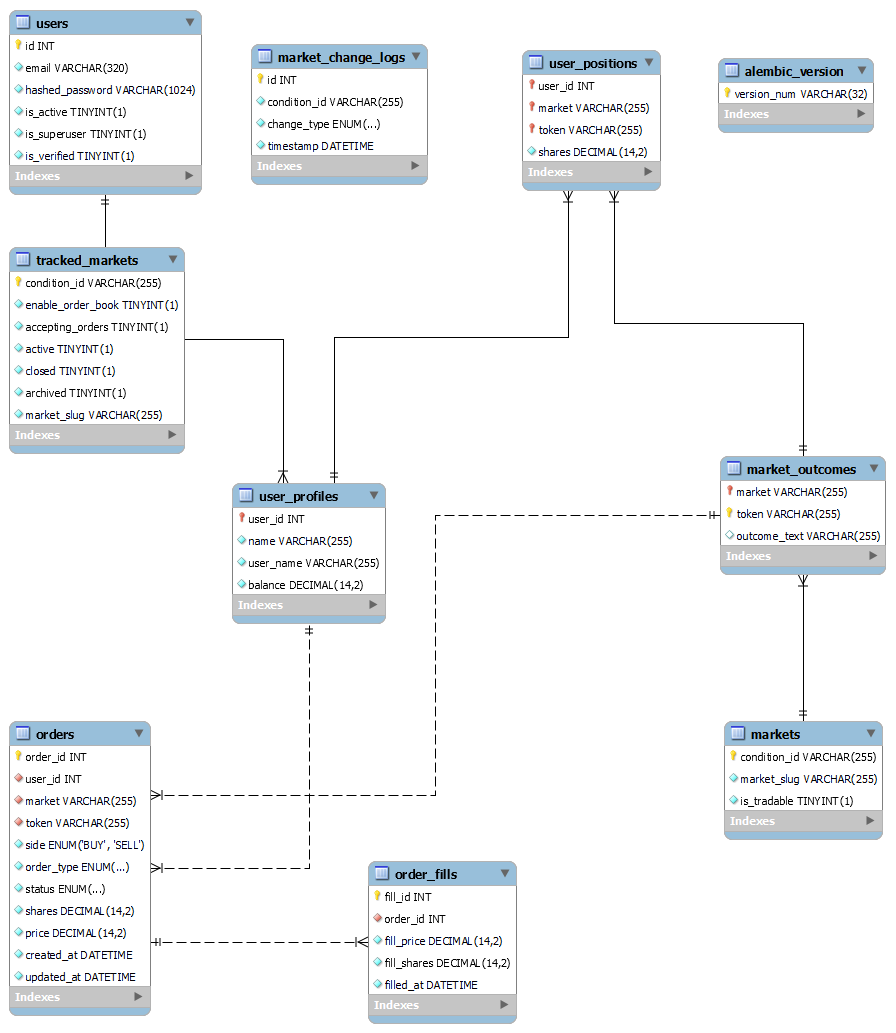
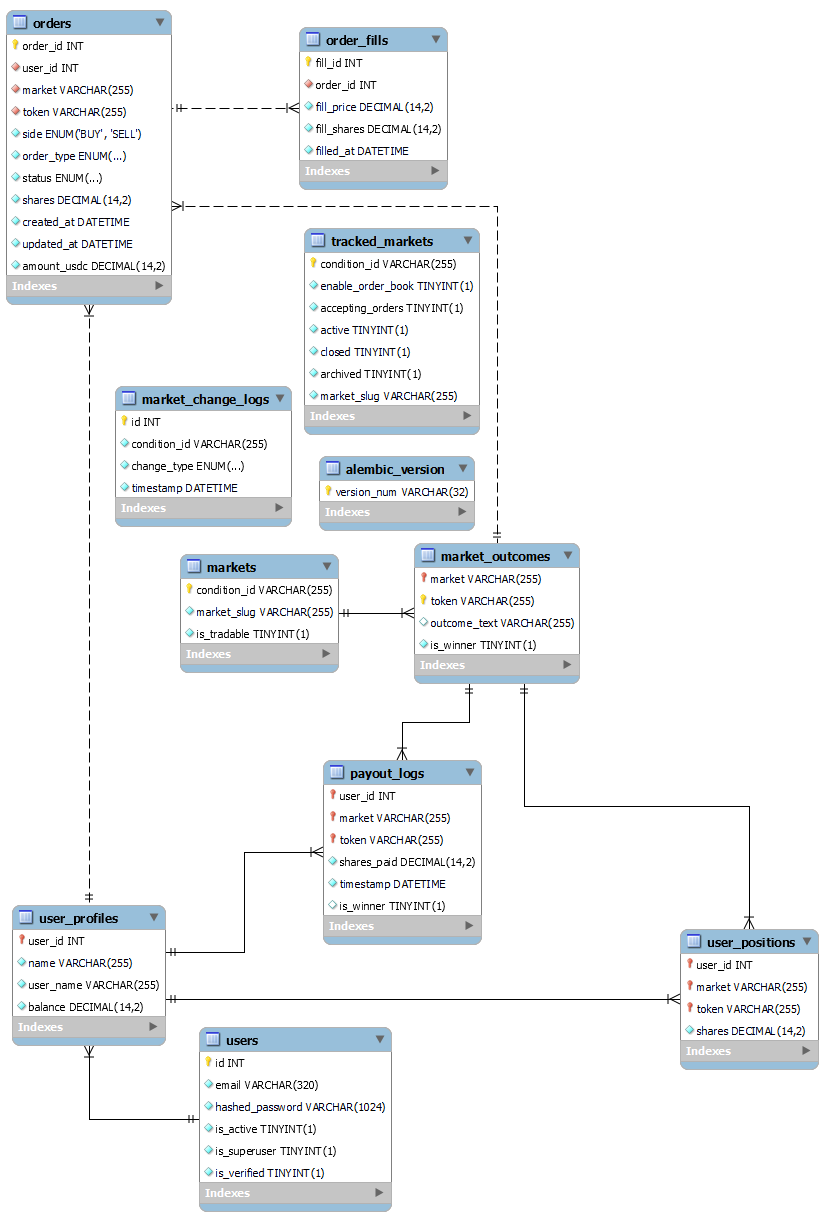
Add periodic sync loop to market_sync job
Refactored the script to run sync_market_and_resolve in a continuous loop with a 5-minute interval between executions. Updated entry point to use the new periodic function. Updated schema files.

diff --git a/app/background_jobs/market_sync.py b/app/background_jobs/market_sync.py
@@ -22,12 +22,15 @@ async def sync_market_and_resolve(db: AsyncSession):
 
     return combined_result
 
-
-if __name__ == "__main__":
-    async def main():
+async def run_periodic_sync():
+    while True:
         async with get_async_manager() as db:
             result = await sync_market_and_resolve(db)
-        await engine.dispose()
         with open("sync_and_resolve_dump.txt", "w", encoding="utf-8") as f:
             json.dump(result, f, indent=2, default=str)
-    asyncio.run(main())
+        print("Sync complete, sleeping for 5 minutes")
+        await engine.dispose()
+        await asyncio.sleep(300)
+
+if __name__ == "__main__":
+    asyncio.run(run_periodic_sync())
